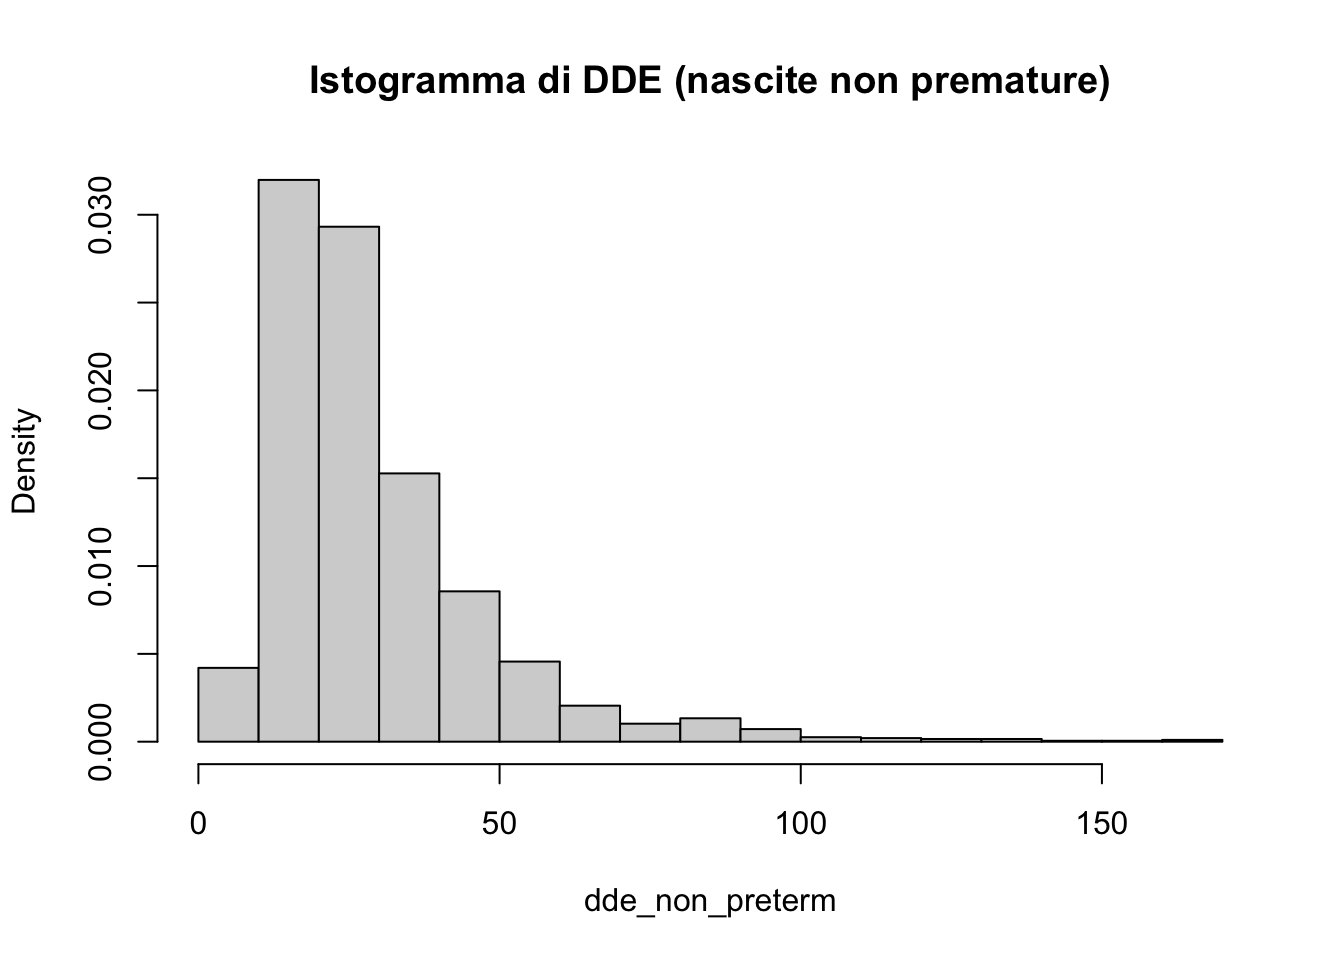
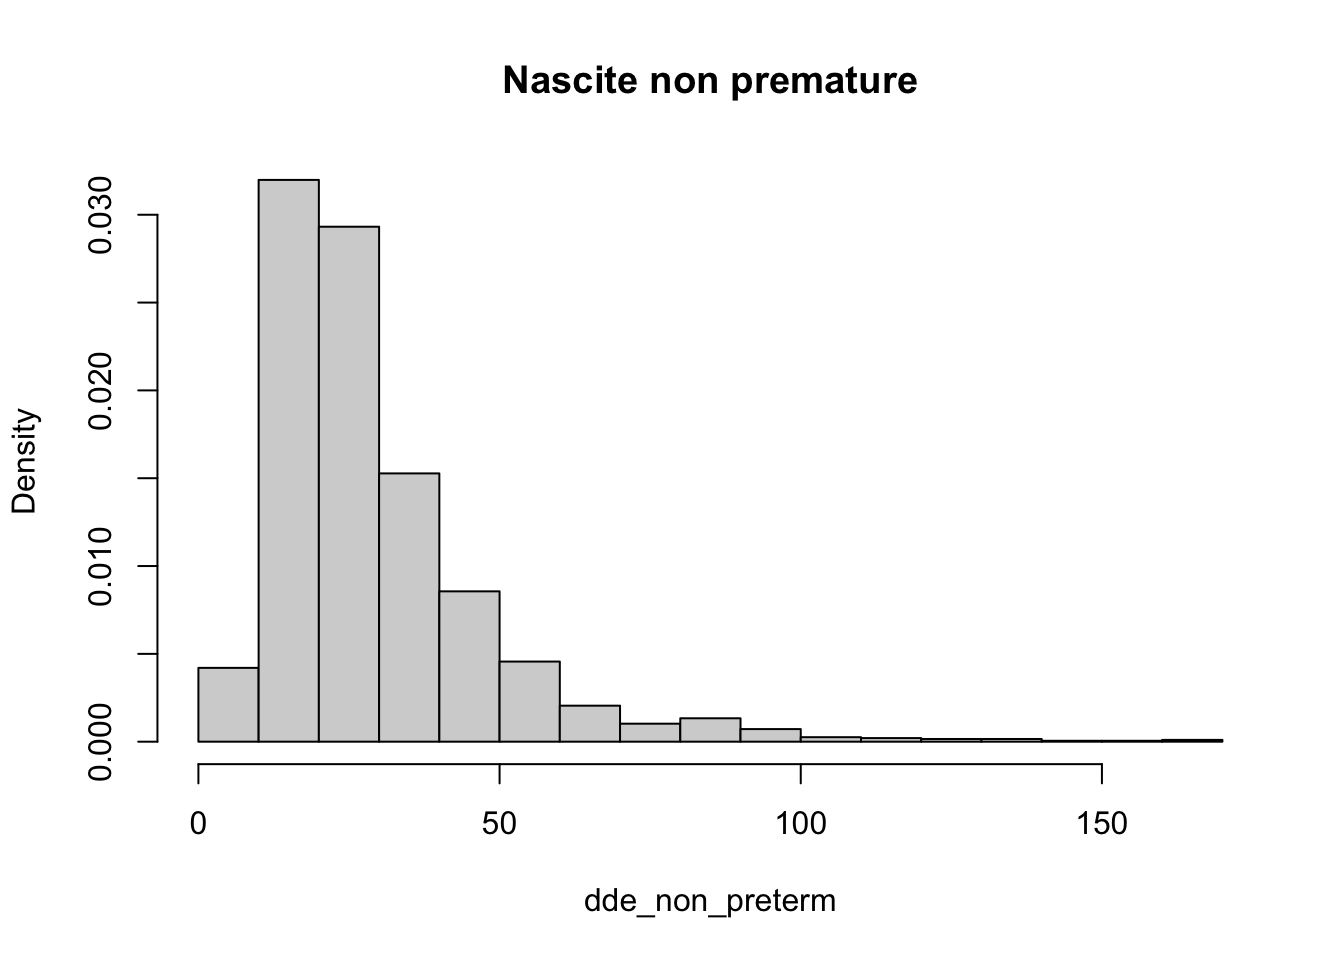
asd

Changed region(s): [[0.2188, 0.0625, 0.8438, 0.125]]

diff --git a/docs/lezioni/un_D.html b/docs/lezioni/un_D.html
@@ -442,7 +442,7 @@ Domanda di ricerca
 <span id="cb21-5"><a href="#cb21-5" aria-hidden="true" tabindex="-1"></a>  <span class="at">freq =</span> <span class="cn">TRUE</span>,</span>
 <span id="cb21-6"><a href="#cb21-6" aria-hidden="true" tabindex="-1"></a>  <span class="at">breaks =</span> <span class="dv">10</span>, <span class="co"># Utilizzo 10 sotto-intervalli</span></span>
 <span id="cb21-7"><a href="#cb21-7" aria-hidden="true" tabindex="-1"></a>  <span class="co"># Da qui in poi stiamo solo aggiungendo dettagli estetici</span></span>
-<span id="cb21-8"><a href="#cb21-8" aria-hidden="true" tabindex="-1"></a>  <span class="at">main =</span> <span class="st">"Istogramma di DDE (nascite non premature)"</span>,</span>
+<span id="cb21-8"><a href="#cb21-8" aria-hidden="true" tabindex="-1"></a>  <span class="at">main =</span> <span class="st">"Nascite non premature"</span>,</span>
 <span id="cb21-9"><a href="#cb21-9" aria-hidden="true" tabindex="-1"></a>  <span class="at">xlab =</span> <span class="st">"DDE"</span>,</span>
 <span id="cb21-10"><a href="#cb21-10" aria-hidden="true" tabindex="-1"></a>  <span class="at">ylab =</span> <span class="st">"Frequenze assolute"</span></span>
 <span id="cb21-11"><a href="#cb21-11" aria-hidden="true" tabindex="-1"></a>)</span>
@@ -452,7 +452,7 @@ Domanda di ricerca
 <span id="cb21-15"><a href="#cb21-15" aria-hidden="true" tabindex="-1"></a>  <span class="at">freq =</span> <span class="cn">FALSE</span>, <span class="co"># NON vengono usate le frequenze</span></span>
 <span id="cb21-16"><a href="#cb21-16" aria-hidden="true" tabindex="-1"></a>  <span class="at">breaks =</span> <span class="dv">10</span>, <span class="co"># Utilizzo 10 sotto-intervalli</span></span>
 <span id="cb21-17"><a href="#cb21-17" aria-hidden="true" tabindex="-1"></a>  <span class="co"># Da qui in poi stiamo solo aggiungendo dettagli estetici</span></span>
-<span id="cb21-18"><a href="#cb21-18" aria-hidden="true" tabindex="-1"></a>  <span class="at">main =</span> <span class="st">"Istogramma di DDE (nascite non premature)"</span>,</span>
+<span id="cb21-18"><a href="#cb21-18" aria-hidden="true" tabindex="-1"></a>  <span class="at">main =</span> <span class="st">"Nascite non premature"</span>,</span>
 <span id="cb21-19"><a href="#cb21-19" aria-hidden="true" tabindex="-1"></a>  <span class="at">xlab =</span> <span class="st">"DDE"</span>,</span>
 <span id="cb21-20"><a href="#cb21-20" aria-hidden="true" tabindex="-1"></a>  <span class="at">ylab =</span> <span class="st">"Densità"</span></span>
 <span id="cb21-21"><a href="#cb21-21" aria-hidden="true" tabindex="-1"></a>)</span></code><button title="Copy to Clipboard" class="code-copy-button"><i class="bi"></i></button></pre></div>
@@ -555,14 +555,14 @@ Nota
 <div class="cell">
 <div class="sourceCode cell-code" id="cb29"><pre class="sourceCode r code-with-copy"><code class="sourceCode r"><span id="cb29-1"><a href="#cb29-1" aria-hidden="true" tabindex="-1"></a><span class="fu">hist</span>(dde_non_preterm, <span class="co"># Gruppo nascite non-premature</span></span>
 <span id="cb29-2"><a href="#cb29-2" aria-hidden="true" tabindex="-1"></a>  <span class="at">freq =</span> <span class="cn">FALSE</span>,</span>
-<span id="cb29-3"><a href="#cb29-3" aria-hidden="true" tabindex="-1"></a>  <span class="at">main =</span> <span class="st">"Istogramma di DDE (nascite non premature)"</span></span>
+<span id="cb29-3"><a href="#cb29-3" aria-hidden="true" tabindex="-1"></a>  <span class="at">main =</span> <span class="st">"Nascite non premature"</span></span>
 <span id="cb29-4"><a href="#cb29-4" aria-hidden="true" tabindex="-1"></a>)</span></code><button title="Copy to Clipboard" class="code-copy-button"><i class="bi"></i></button></pre></div>
 <div class="cell-output-display">
 <p><img src="un_D_files/figure-html/unnamed-chunk-12-1.png" class="img-fluid" width="672"></p>
 </div>
 <div class="sourceCode cell-code" id="cb30"><pre class="sourceCode r code-with-copy"><code class="sourceCode r"><span id="cb30-1"><a href="#cb30-1" aria-hidden="true" tabindex="-1"></a><span class="fu">hist</span>(dde_preterm, <span class="co"># Gruppo nascite premature</span></span>
 <span id="cb30-2"><a href="#cb30-2" aria-hidden="true" tabindex="-1"></a>  <span class="at">freq =</span> <span class="cn">FALSE</span>,</span>
-<span id="cb30-3"><a href="#cb30-3" aria-hidden="true" tabindex="-1"></a>  <span class="at">main =</span> <span class="st">"Istogramma di DDE (nascite premature)"</span></span>
+<span id="cb30-3"><a href="#cb30-3" aria-hidden="true" tabindex="-1"></a>  <span class="at">main =</span> <span class="st">"Nascite premature"</span></span>
 <span id="cb30-4"><a href="#cb30-4" aria-hidden="true" tabindex="-1"></a>)</span></code><button title="Copy to Clipboard" class="code-copy-button"><i class="bi"></i></button></pre></div>
 <div class="cell-output-display">
 <p><img src="un_D_files/figure-html/unnamed-chunk-12-2.png" class="img-fluid" width="672"></p>
